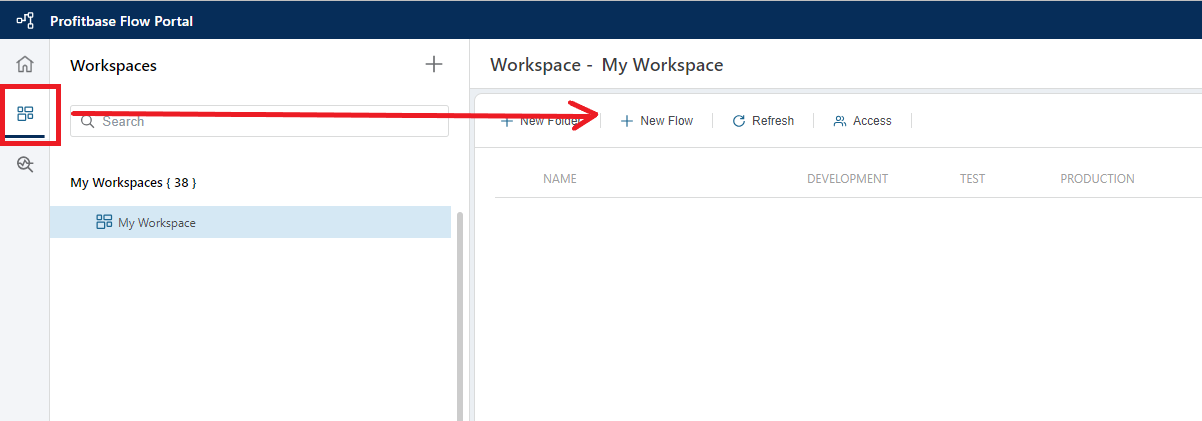
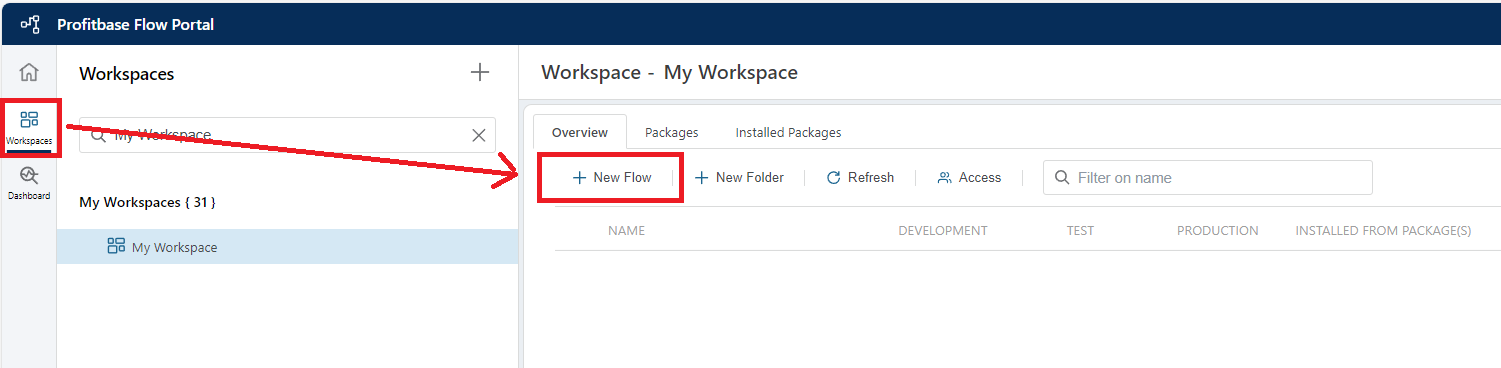
improve getting started docs

diff --git a/articles/flow/getting-started.md b/articles/flow/getting-started.md
@@ -2,16 +2,25 @@
 
 This getting started guide outlines the main steps required to creating and running your first Flow.
 
-1. [Create a Workspace](./workspaces/create-workspace.md) if you don't already have one.
+### 1. Create a Workspace
+Start by [creating a Workspace](./workspaces/create-workspace.md) if you don't already have one.
 Before you can create any Flows, you need to have at least one [Workspace](./workspaces.md). A Workspace is a logical container of Flows and artifacts that belong together, and there is no restriction on how many Flows a Workspace can contain. Within a Workspace, you can choose to organize Flows in Folders if the number of Flows get large. If you have an existing Flow that you want to edit, you need to open the Workspace it belongs to and then select the Flow you want to edit.
 
-2. [Optional] [Grant permissions to the Workspace](./workspaces/workspace-access-control.md)  
-Tenant admins have access to all Workspaces. If you want non-admin users to have access to a Workspace, you need to explicitly grant them access to the Workspace.
+![img](/images/flow/create-workspace.png)
 
-3. [Create a Flow](./flows/create-flow.md)  
+### 2. [Optional] Grant other users permissions to the Workspace
+When you create a Workspace, you will automatically be granted access to it. By default, tenant administrators have access to all Workspaces.  
+If you want other (non-admin) users to have access to the Workspace, you need to explicitly grant them access. [Read more here.](./workspaces/workspace-access-control.md)  
+
+### 3. Create a Flow
+
+With your Workspace created, you can now [create a Flow](./flows/create-flow.md). 
+
+![img](/images/flow/create-flow-from-portal.png)
+
 
 ## Run Flows
-
+You have multiple options for running a Flow. The topics below describe different ways of running Flows during development, production, and from 3rd party apps.
 
 [Run a Flow from the Flow Designer](./flows/running-flows/from-designer.md)  
 [Run a Flow from a trigger](./flows/running-flows/from-events-in-external-systems.md)  

diff --git a/articles/flow/flows/create-flow.md b/articles/flow/flows/create-flow.md
@@ -16,3 +16,15 @@ To create a Flow from the Portal, click the Workspaces icon in the left navigati
 To create a Flow from the Designer, open the File menu and click `New`.  
 
 ![img](/images/flow/create-flow-from-designer.png)
+
+
+## Run Flows
+You have multiple options for running a Flow. The topics below describe different ways of running Flows during development, production, and from 3rd party apps.
+
+[Run a Flow from the Flow Designer](./running-flows/from-designer.md)  
+[Run a Flow from a trigger](./running-flows/from-events-in-external-systems.md)  
+[Run a Flow from a 3rd party app](./running-flows/from-third-party-app.md)  
+[Run a Flow on a schedule](./running-flows/run-scheduled.md)  
+
+[Run a Flow from an InVision Workbook](../../invision/docs/flows/how-to/run-flow-from-workbook.md)  
+[Run a Flow from an InVision Form](../../invision/docs/flows/how-to/run-flow-from-form-schema.md)

diff --git a/articles/flow/flow.md b/articles/flow/flow.md
@@ -2,7 +2,7 @@
 
 # What is Profitbase Flow
 
-Profitbase Flow enables the office of finance to build financial models, automate digital processes and integrate data from disparate sources. It lets you build and run workloads using a visual "boxes and arrows" interface, which includes a toolbox for integrating with a wide range of commonly used services, APIs, databases, files, and data structures.
+Profitbase Flow enables the Office of Finance to build financial models, automate digital processes and integrate data from disparate sources. It lets you build and run workloads using a visual drag and drop interface, which includes a toolbox for integrating with a wide range of commonly used services, APIs, databases, files, and data structures.
 
 #### Financial modelling
 
